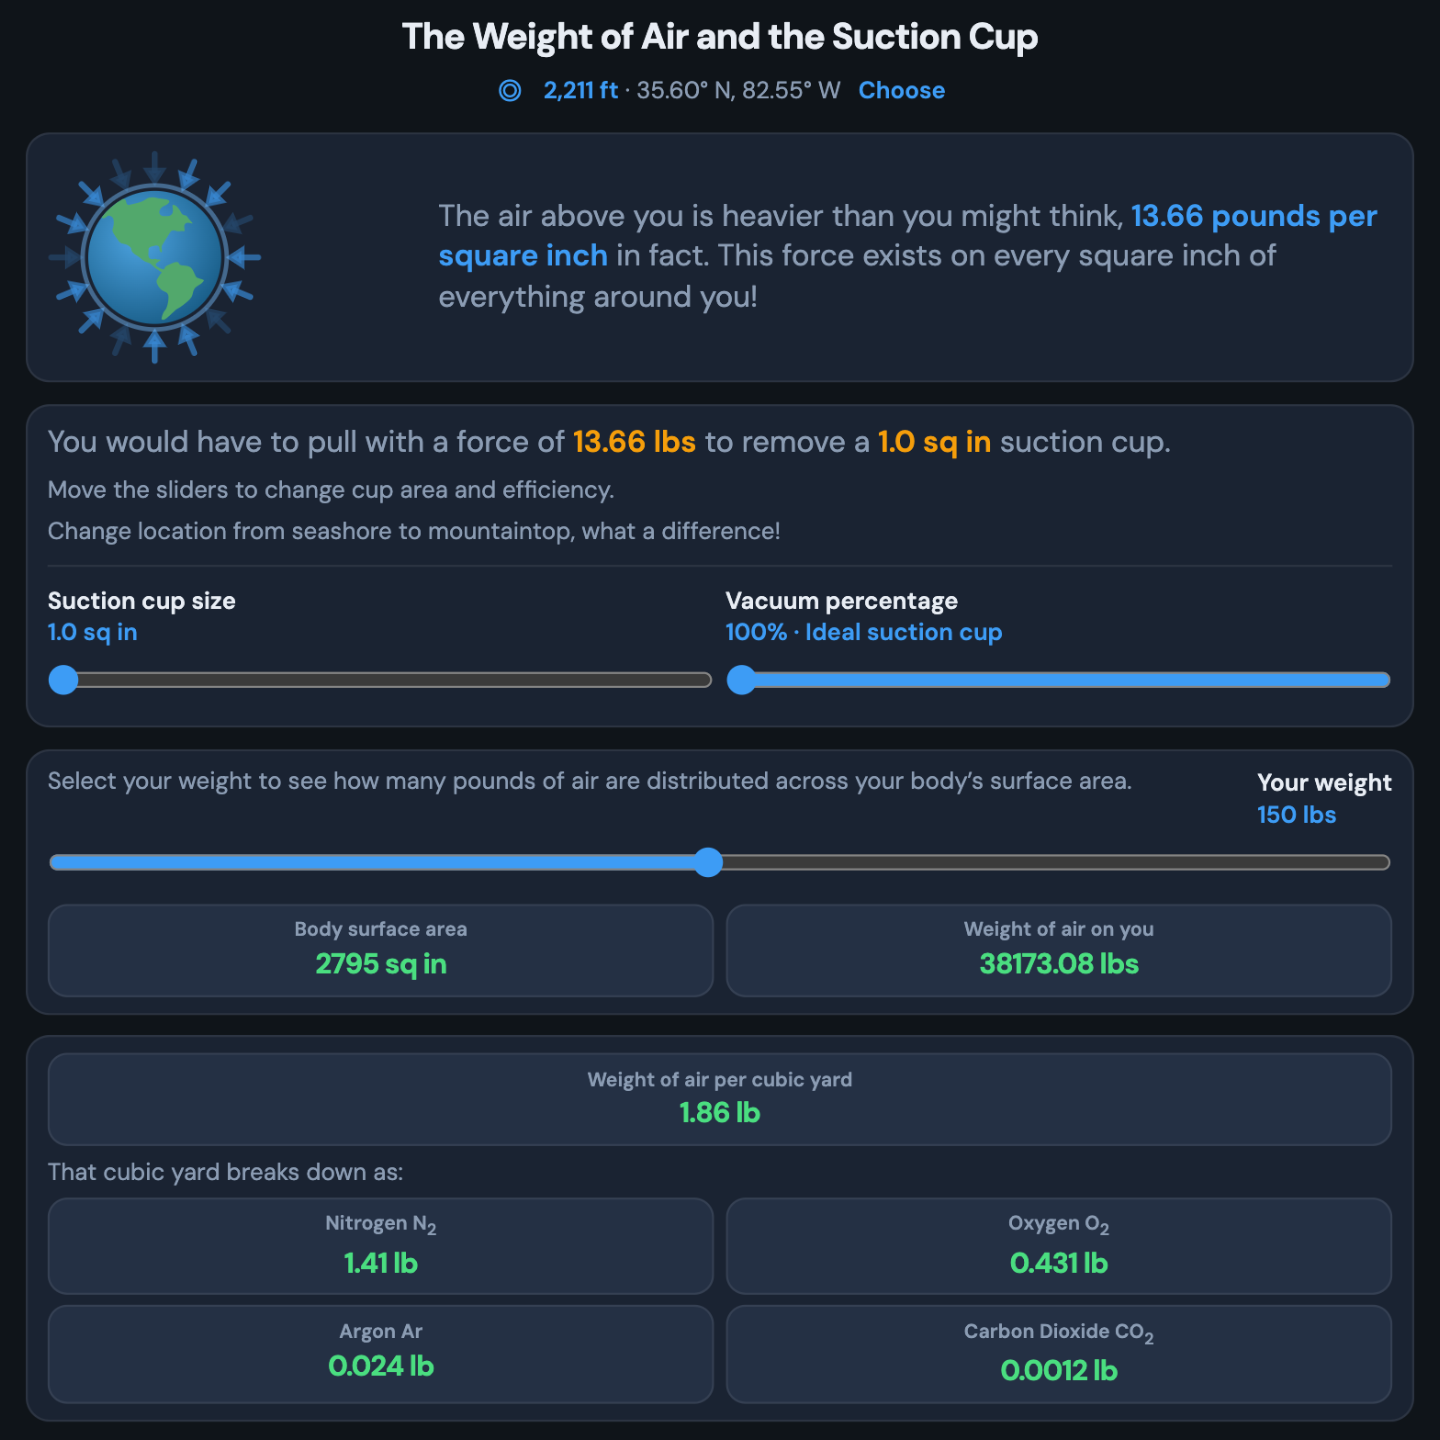
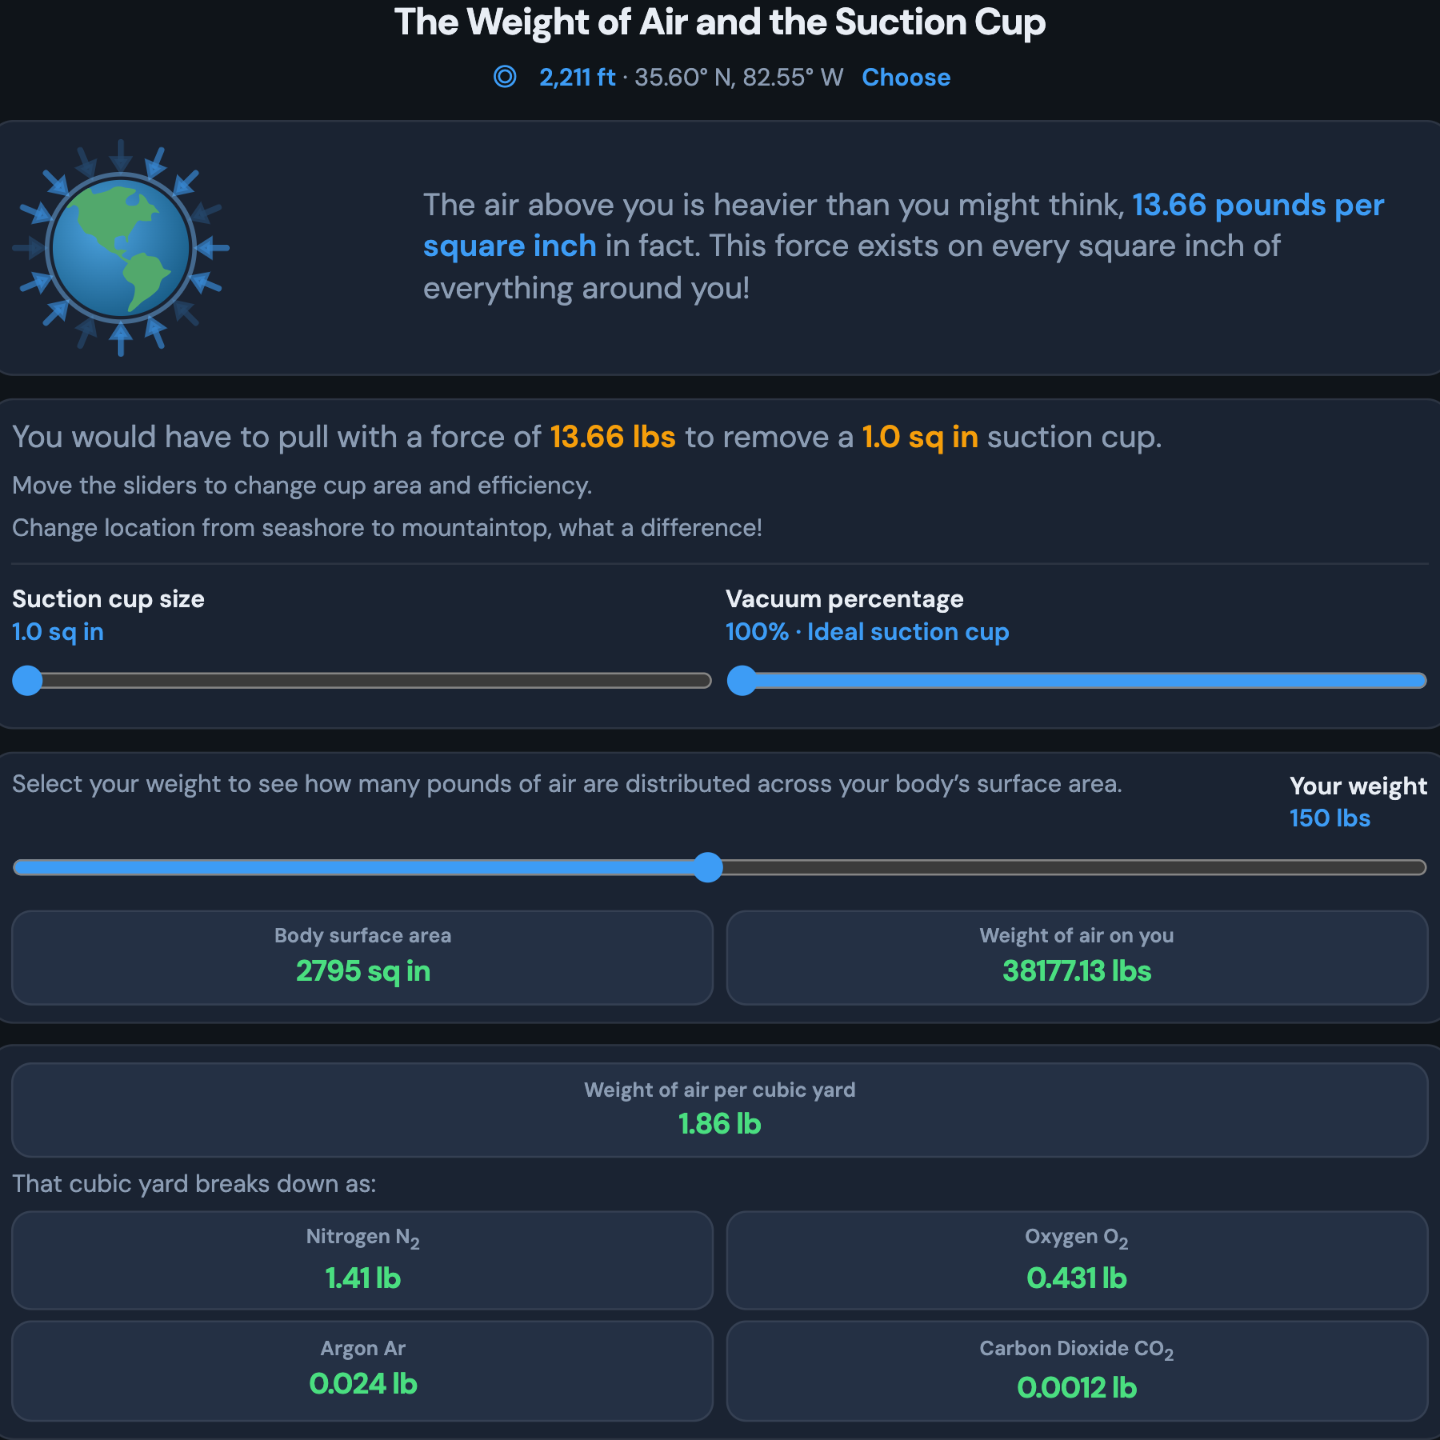
Add Weight of Air card with full-size hub preview
Restore the suction cup app tile and recapture its screenshot with a
higher cover boost so the preview fills the card like the other apps.

Changed region(s): [[0.0, 0.0, 1.0, 1.0], [0.5, 0.4062, 0.7188, 0.4688]]

diff --git a/index.html b/index.html
@@ -167,6 +167,25 @@
         </li>
 
         <li class="grid-item">
+          <a class="card" href="https://air.markmaga.com" data-app="weight-of-air" aria-label="The Weight of Air and the Suction Cup">
+            <span class="card-media card-media--square">
+              <img
+                src="images/weight-of-air.webp?v=6"
+                alt=""
+                width="720"
+                height="720"
+                loading="lazy"
+                decoding="async"
+              />
+              <span class="card-overlay" aria-hidden="true">
+                <span class="card-cta">Open app</span>
+              </span>
+            </span>
+          </a>
+          <p class="card-hint">Live air pressure at your location · slide cup size and vacuum · see pull force in lbs</p>
+        </li>
+
+        <li class="grid-item">
           <a class="card" href="https://elevation.markmaga.com" data-app="us-elevation-map" aria-label="US Elevation Map">
             <span class="card-media card-media--square">
               <img